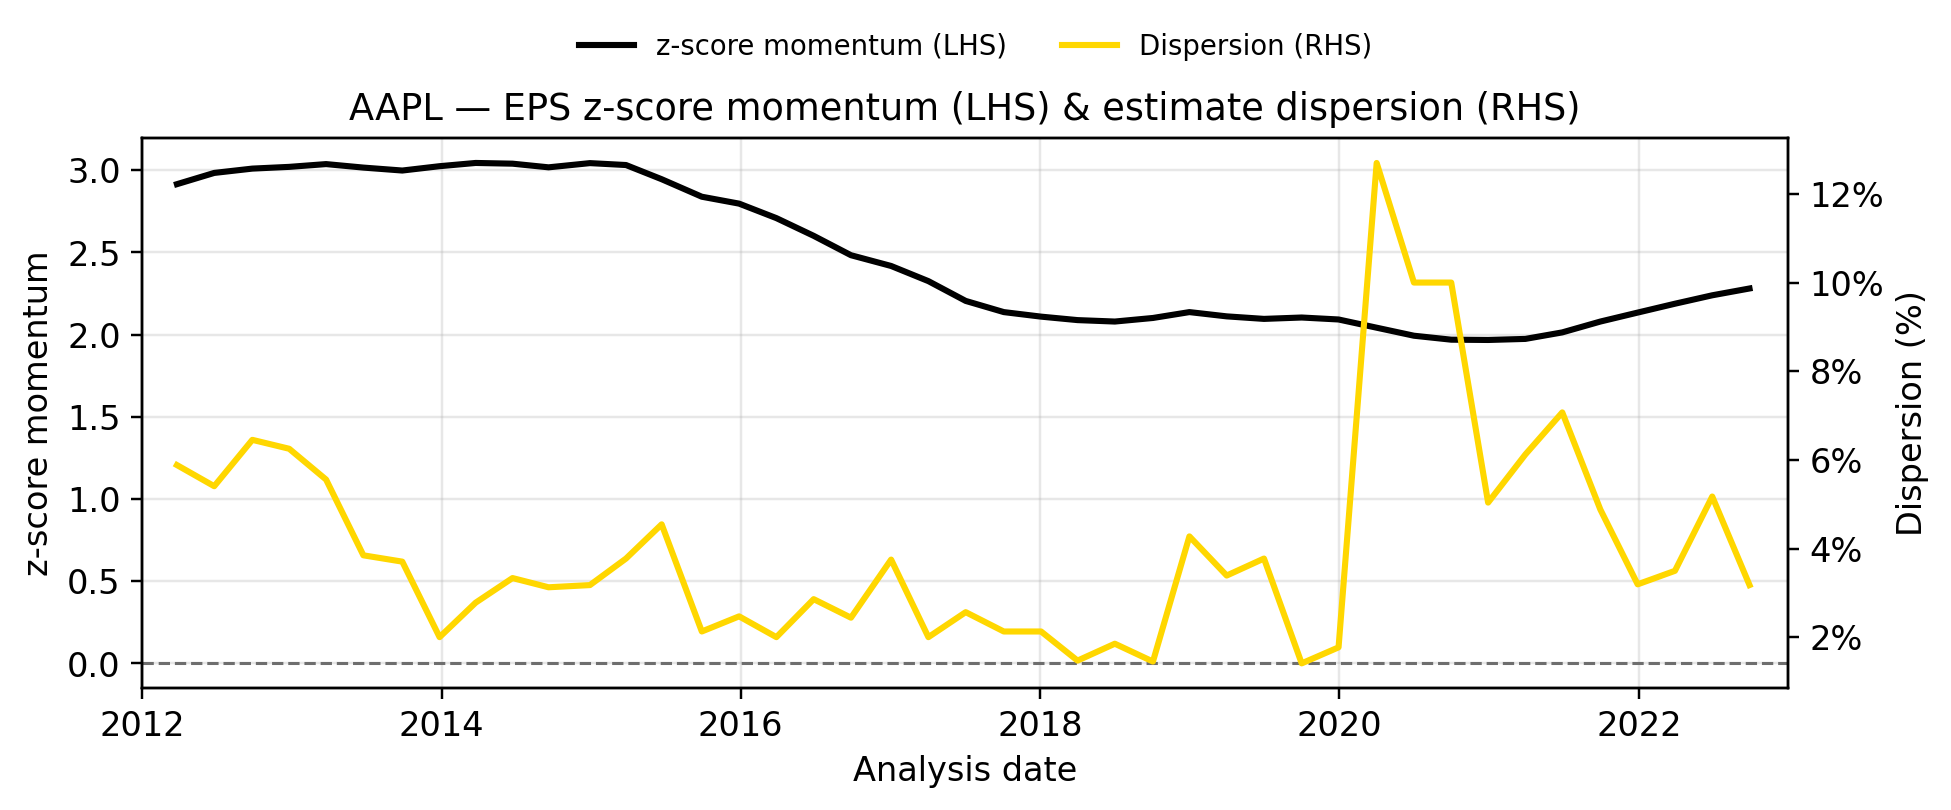
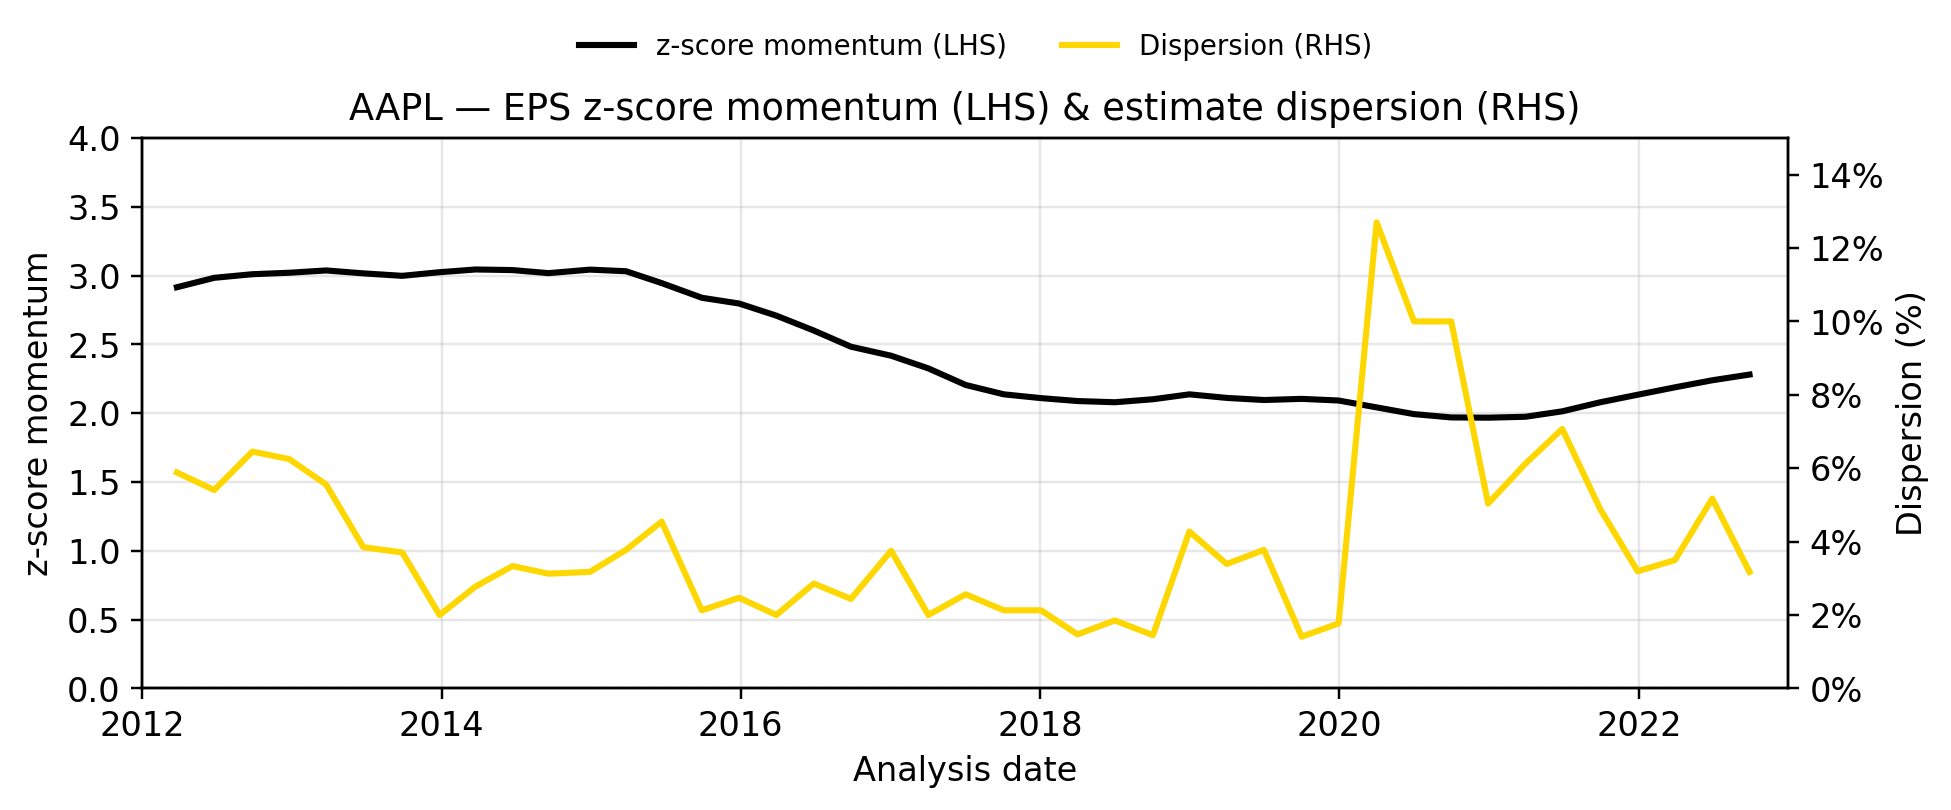
Update smoothing charts

diff --git a/analysis_scripts_2/eps_plots.py b/analysis_scripts_2/eps_plots.py
@@ -38,7 +38,7 @@ from matplotlib.dates import AutoDateLocator, ConciseDateFormatter
 # =============== CONFIG ===============
 IN_PATH   = "analysis_scripts_2/data_files/eps_features_at_analysis_dates.csv"  # path to your CSV
 OUT_DIR   = "analysis_scripts_2/data_files/eps_plots"
-DEMO_TICKER = "PG"      # e.g., "AAPL" to force; None -> auto choose most frequent
+DEMO_TICKER = "AAPL"      # e.g., "AAPL" to force; None -> auto choose most frequent
 
 # (Optional) make analysis dates match canonical T*−BD_LAG with tolerance
 FORCE_CANONICAL_DATES = True
@@ -263,6 +263,7 @@ else:
     )
     ax1.axhline(0, color=pal["lin"], ls="--", lw=1)
     ax1.set_ylabel("z-score momentum")
+    ax1.set_ylim(0, 4)
 
     # Right axis: dispersion
     h2, = ax2.plot(
@@ -270,6 +271,8 @@ else:
         color=pal["pre"], lw=2, label="Dispersion (RHS)"
     )
     ax2.set_ylabel("Dispersion (%)")
+    ax2.set_ylim(0, 0.15)   # <--- or (0, 15) if values are already in %
+    ax2.yaxis.set_major_formatter(FuncFormatter(lambda v, pos: f"{v*100:.0f}%"))
     if np.nanmax(d_pair["dispersion_pct_ibes"].values) <= 1.0:
         ax2.yaxis.set_major_formatter(FuncFormatter(lambda v, pos: f"{v*100:.0f}%"))
 
